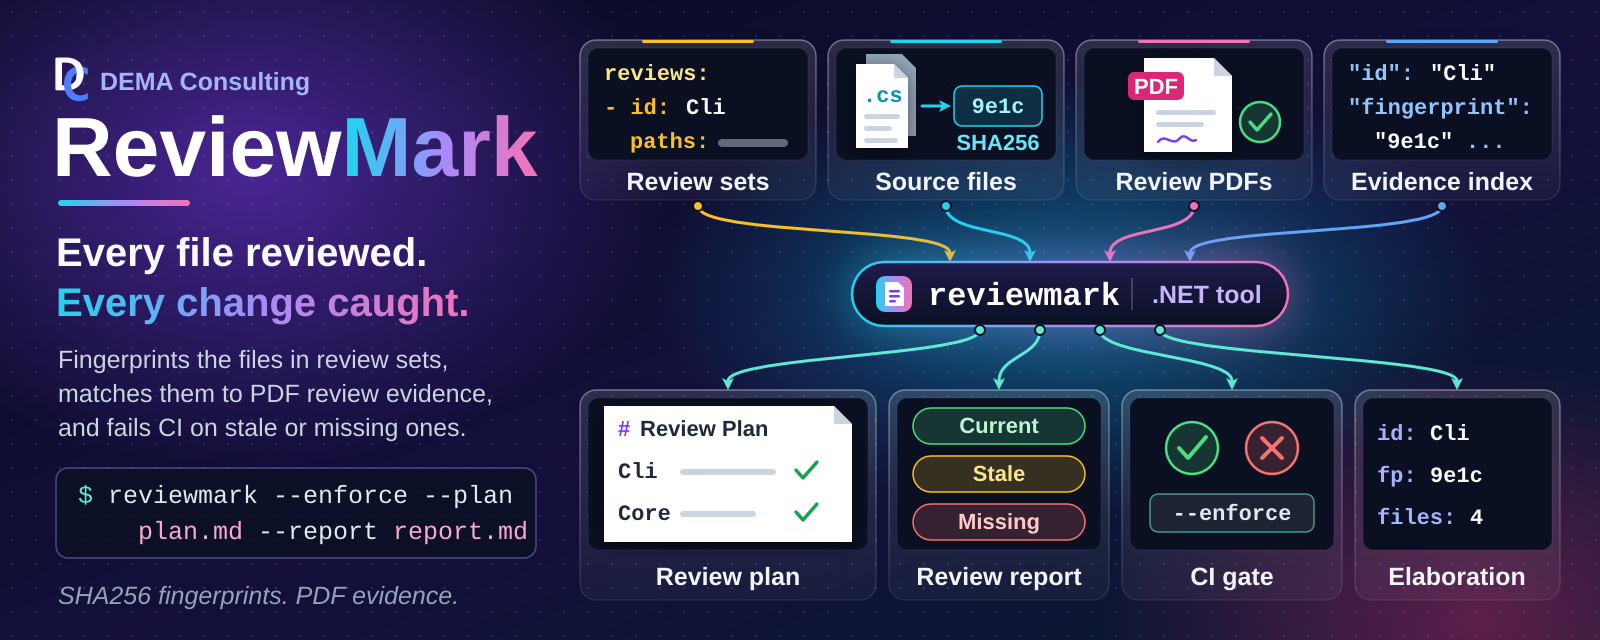
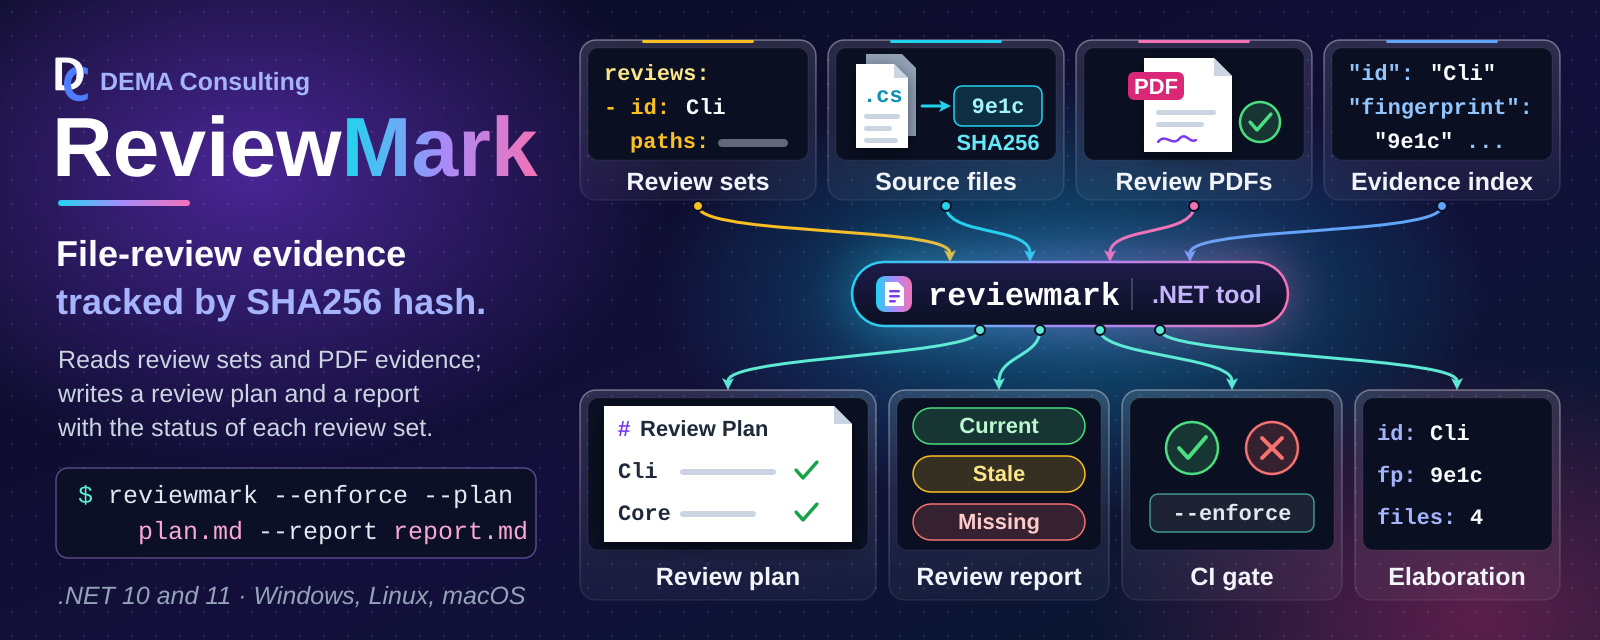
Sync agents/template and calm the README hero (#121)
* Sync shared agents, skills, and standards from Agents main

Includes docdown skill wording (#60), orchestrator Pull Requests section and planning
Feasibility and Delivery step (#62), SysML2 one-package-per-file rule (#64), and the
AGENTS.md Project Scripts section.

* Sync template: yamlfix block-text comments and script CUSTOMIZATION notes

Applies template #61 (comments_require_starting_space = false) and #63 (CUSTOMIZATION
header comments in build.ps1, lint.ps1, fix.ps1). Comment-only script changes.

* Calm the README hero and make it the H1

Plain-statement tagline in solid white and #a5b4fc at 36px (no gradient), factual body
and footnote, per template #66. The hero image is now the README H1 with the badges
directly under it.

* Record the legacy SysML2 package layout as a standards exception

---------

Changed region(s): [[0.0312, 0.5312, 0.3125, 0.6875], [0.0312, 0.375, 0.3125, 0.5], [0.0312, 0.9062, 0.3438, 0.9688]]

diff --git a/.github/standards/sysml2-modeling.md b/.github/standards/sysml2-modeling.md
@@ -31,15 +31,15 @@ docs/sysml2/
 ├── common/
 │   └── software-items.sysml           # shared SoftwareItemMetadata::SoftwareInfo metadata def
 ├── model/
-│   ├── {system-name}.sysml            # system-level part def only (no subsystems/units inline)
+│   ├── {system-name}.sysml            # package {SystemName}; system-level part def only (no subsystems/units inline)
 │   ├── {system-name}/
-│   │   ├── {subsystem-name}.sysml     # subsystem part def; nests further for sub-subsystems
+│   │   ├── {subsystem-name}.sysml     # package {SystemName}_{SubsystemName}Subsystem; nests further for sub-subsystems
 │   │   └── {subsystem-name}/
-│   │       └── {unit-name}.sysml      # one file per unit
-│   ├── ots.sysml                      # OTS dependency parts (optional; if OTS items exist)
-│   └── shared.sysml                   # Shared Package parts (optional; if Shared Packages exist)
+│   │       └── {unit-name}.sysml      # package {SystemName}_{UnitName}; one file per unit
+│   ├── ots.sysml                      # package OtsDependencies: OTS parts (optional; if OTS items exist)
+│   └── shared.sysml                   # package SharedPackages: Shared Package parts (optional; if Shared Packages exist)
 └── views/
-    └── design-views.sysml             # named view usages rendered for the design document
+    └── design-views.sysml             # package {RepoName}DesignViews; named view usages rendered for the design document
 ```
 
 `docs/sysml2/common/software-items.sysml` defines the `SoftwareItemMetadata::SoftwareInfo`
@@ -62,14 +62,42 @@ so no single alias name would generalize. Agents discover the system(s) present 
 `docs/sysml2/**/*.sysml`, not by assuming a fixed name.
 
 Always pass the full set of `.sysml` files (or an equivalent glob) to every `sysml2tools`
-invocation — the model spans multiple files and cross-references between them; files sharing
-the same `package Name { ... }` merge into one namespace automatically with no `import`
-required, as long as all files are passed together. As of `sysml2tools` 0.1.0-beta.5,
+invocation — the model spans multiple files and cross-references between them, and a
+reference only resolves when the file declaring its target is loaded (see Package Structure
+below for how files reference each other). As of `sysml2tools` 0.1.0-beta.5,
 `lint` and `render` both expand `*`/`**` glob patterns internally (recursing correctly into
 subdirectories), so pass a single **quoted** glob string (e.g. `'docs/sysml2/**/*.sysml'`)
 and let the tool resolve it — do not rely on the shell to expand it, and do not quote-strip
 the pattern before it reaches the tool. Quoting keeps the behavior identical across
 PowerShell and bash, since neither shell needs to (or reliably does) expand `**` itself.
+
+## Package Structure
+
+SysML v2 has no package merging: each file is its own root namespace, and two root packages
+with the same name are duplicate members of the global namespace (the OMG Pilot
+Implementation reports "Duplicate of other owned member name" for each, and references across
+the halves do not resolve). A model that only loads because a tool is lenient is not portable,
+so:
+
+- Each `.sysml` file declares **exactly one uniquely named package**, and a package is never
+  declared (or "reopened") in more than one file.
+- Name each package from its place in the hierarchy, joined with an underscore:
+  `{SystemName}` for the system file, `{SystemName}_{SubsystemName}Subsystem` for a subsystem
+  (including a nested sub-subsystem, which is not prefixed with its parent subsystem), and
+  `{SystemName}_{UnitName}` for a unit. The system prefix keeps names unique across systems.
+  The shared files use `OtsDependencies` and `SharedPackages`, and the single views file uses
+  one repository-level package, `{RepoName}DesignViews` (not one per system).
+- Package names must be unique **repository-wide**. The short forms above are the default;
+  when one would collide (two `Storage` subsystems in different branches, or two units named
+  `Cache` in different subsystems), qualify it with the owning subsystem path, for example
+  `{SystemName}_{SubsystemName}_{UnitName}` (`Acme_Ingest_Cache` and `Acme_Query_Cache`).
+- Reference other files with an explicit `private import {PackageName}::*;` (a system or
+  subsystem file imports the package of each direct member so its `part` usages resolve; every
+  file that applies `SoftwareInfo` imports `SoftwareItemMetadata::*`).
+- Where an import would form a cycle (for example a unit that depends on a package that
+  already imports it), or for a one-off reference into another system, use the qualified name
+  instead, e.g. `dependency {UnitName} to {SystemName}_{OtherUnit}::{OtherUnit};`.
+  Import cycles raise a lint warning; qualified references do not.
 
 ## Model Content
 
@@ -174,11 +202,13 @@ Views control what gets rendered into diagrams for the design document. Use name
 **usages** (not `view def` **definitions**) — `expose` is only valid inside a usage:
 
 ```sysml
-package {SystemName} {
+package {RepoName}DesignViews {
     private import StandardViewDefinitions::*;
+    private import {SystemName}::*;
+    private import {SystemName}_{SubsystemName}Subsystem::*;
 
     view SoftwareStructureView : InterconnectionView {
-        expose {SystemName}::**;     // all members, recursively: system + subsystems + units
+        expose {SystemName}::{SystemName}System::**;  // system part def, recursively: subsystems + units
     }
 
     view {SystemName}View {
@@ -186,10 +216,12 @@ package {SystemName} {
     }
 
     view {SubsystemName}View {
-        expose {SubsystemName};      // one subsystem def only
+        expose {SubsystemName}Subsystem;      // one subsystem def only
     }
 }
 ```
+
+Views import (or qualify) every package whose members they expose, like any other file.
 
 Type `SoftwareStructureView` by a standard view definition from the SysML v2 Views library
 (`GeneralView`, `InterconnectionView`, ...; requires `sysml2tools` 0.3.0-beta.3+). The view
@@ -223,25 +255,27 @@ There is no dedicated `DependencyView`/`{SubsystemName}DependencyView` diagram c
 above), not rendered.
 
 When a repository has multiple systems, type `SoftwareStructureView` by `GeneralView`,
-expose each system package's members, and filter out documentation so the overview stays
-readable — the general view draws one package frame per system, while an interconnection
-view places all systems in a single row:
+expose each system's part def (and each subsystem's, by qualified name), and filter out
+documentation so the overview stays readable — the general view draws one package frame per
+system, while an interconnection view places all systems in a single row:
 
 ```sysml
 package {RepoName}DesignViews {
     private import StandardViewDefinitions::*;
 
     view SoftwareStructureView : GeneralView {
-        expose {SystemNameA}::**;
-        expose {SystemNameB}::**;
-        filter not @SysML::Documentation;
+        expose {SystemNameA}::{SystemNameA}System;
+        expose {SystemNameA}_{SubsystemName}Subsystem::{SubsystemName}Subsystem;
+        expose {SystemNameB}::{SystemNameB}System;
+        filter not (@SysML::Documentation);
     }
 }
 ```
 
 Documentation (`doc`) is exposed with its owner and drawn as a `doc` compartment unless a
-view filters it out; use `filter not @SysML::Documentation;` wherever doc text would clutter
-a diagram.
+view filters it out; use `filter not (@SysML::Documentation);` wherever doc text would clutter
+a diagram. The parentheses are required: the SysML v2 grammar does not accept the unparenthesized
+`filter not @SysML::Documentation;`.
 
 ## Diagram Embedding
 
@@ -313,6 +347,9 @@ sync.
   `sourceFiles`; the purpose statement appears only in the `doc` comment, never in `SoftwareInfo`
 - [ ] `docs/sysml2/views/design-views.sysml` uses `view Name { expose ...; }` usages, not
   `view def` definitions
+- [ ] Each `.sysml` file declares exactly one uniquely named package (never the same package
+  in two files), named per Package Structure, and references other files through
+  `private import` or qualified names (qualified where an import would form a cycle)
 - [ ] View names follow the `SoftwareStructureView` / `{SystemName}View` /
   `{SubsystemName}View` convention (no dedicated `DependencyView`)
 - [ ] Each Unit's real collaborators are captured as `dependency A to B;` statements, and each

diff --git a/.github/skills/sysml2tools-query/SKILL.md b/.github/skills/sysml2tools-query/SKILL.md
@@ -21,11 +21,15 @@ dotnet tool restore
 ## Model files
 
 - `docs/sysml2/model/{system-name}.sysml` — system-level `part def` only (no subsystems/units
-  inline). A repository may contain more than one system.
+  inline), in package `{SystemName}`. A repository may contain more than one system.
 - `docs/sysml2/model/{system-name}/{subsystem-name}.sysml` and
   `docs/sysml2/model/{system-name}/{subsystem-name}/{unit-name}.sysml` — one file per
   Subsystem/Unit, nested to mirror the same folder depth as that item's companion
-  `docs/design/`, `docs/reqstream/`, and `docs/verification/` files.
+  `docs/design/`, `docs/reqstream/`, and `docs/verification/` files. Each declares its own
+  uniquely named package; by default `{SystemName}_{SubsystemName}Subsystem` or
+  `{SystemName}_{UnitName}`, qualified with the subsystem path
+  (`{SystemName}_{SubsystemName}_{UnitName}`) when the short name would collide. An element's
+  qualified name is e.g. `{SystemName}_{UnitName}::{UnitName}`.
 - `docs/sysml2/model/ots.sysml` — off-the-shelf (OTS) dependency parts (present when OTS items
   exist).
 - `docs/sysml2/model/shared.sysml` — Shared Package parts (present when Shared Package items
@@ -35,9 +39,10 @@ dotnet tool restore
   useful to see how diagrams are scoped.
 
 Always pass all `.sysml` files (or a glob covering them) to every `sysml2tools`
-invocation — the model spans multiple files and cross-references between them; files that
-reopen the same `package Name { ... }` from different files merge into one namespace
-automatically, no `import` required. As of `sysml2tools` 0.1.0-beta.5, every subcommand
+invocation — the model spans multiple files and cross-references between them (each file
+declares one uniquely named package and references others through `import` or qualified
+names; same-named packages in different files are not merged), so every file a reference
+points at must be loaded. As of `sysml2tools` 0.1.0-beta.5, every subcommand
 (`lint`, `render`, `query`) expands `*`/`**` glob patterns internally and recurses
 correctly — pass a single **quoted** glob string and let the tool resolve it, rather than
 relying on the shell (quoting works identically in both PowerShell and bash):
@@ -57,7 +62,7 @@ summary line, so one query gets you every artifact location for that item withou
 the source tree:
 
 ```pwsh
-dotnet sysml2tools query describe -e {SystemName}::{UnitName} 'docs/sysml2/**/*.sysml'
+dotnet sysml2tools query describe -e {SystemName}_{UnitName}::{UnitName} 'docs/sysml2/**/*.sysml'
 ```
 
 ```text

diff --git a/README.md b/README.md
@@ -1,7 +1,4 @@
-# ReviewMark
-
-<!-- IMPORTANT: All links in this file must be absolute URLs.
-     This file is distributed in packages and relative links will not resolve. -->
+# ![ReviewMark: File-review evidence tracked by SHA256 hash. Reads review sets and PDF evidence; writes a review plan and a report with the status of each review set. Shown with the command 'reviewmark --enforce --plan plan.md --report report.md' and the note '.NET 10 and 11, Windows, Linux, macOS'. Review sets from .reviewmark.yaml, source files with their SHA256 fingerprints, PDF review evidence, and the evidence index.json flow into the reviewmark .NET tool, and arrows lead out to a review plan, a review report with Current, Stale, and Missing statuses, a pass/fail CI gate, and a review-set elaboration][hero]
 
 [![GitHub forks][badge-forks]][link-forks]
 [![GitHub stars][badge-stars]][link-stars]
@@ -12,11 +9,8 @@
 [![Security][badge-security]][link-security]
 [![NuGet][badge-nuget]][link-nuget]
 
-![ReviewMark banner: the ReviewMark name with the tagline 'Every file reviewed. Every change caught.'
-and the command 'reviewmark --enforce --plan plan.md --report report.md'. Review sets from .reviewmark.yaml,
-source files with their SHA256 fingerprints, signed PDF review evidence, and the evidence index.json flow on
-curved arrows into the reviewmark .NET tool, and arrows lead out to a review plan, a review report with Current,
-Stale, and Missing statuses, a pass/fail CI gate, and a review-set elaboration][link-hero-image]
+<!-- IMPORTANT: All links in this file must be absolute URLs.
+     This file is distributed in packages and relative links will not resolve. -->
 
 ## Overview
 
@@ -318,5 +312,5 @@ By contributing to this project, you agree that your contributions will be licen
 [link-guide]: https://github.com/demaconsulting/ReviewMark/blob/main/docs/user_guide/introduction.md
 [link-system-design]: https://github.com/demaconsulting/ReviewMark/blob/main/docs/design/review-mark.md
 [link-continuous-compliance]: https://github.com/demaconsulting/ContinuousCompliance
-[link-hero-image]: https://raw.githubusercontent.com/demaconsulting/ReviewMark/main/docs/images/hero.png
+[hero]: https://raw.githubusercontent.com/demaconsulting/ReviewMark/main/docs/images/hero.png
 [link-workflow-image]: https://raw.githubusercontent.com/demaconsulting/ReviewMark/main/docs/images/workflow.png

diff --git a/AGENTS.md b/AGENTS.md
@@ -160,7 +160,28 @@ requires it and the modification preserves the documented design intent:
 
 - `.reviewmark.yaml`, `.textlint.yaml`, `.editorconfig`
 - `.lintmark.yaml`, `.yamllint.yaml`
-- `requirements.yaml`, `fix.ps1`, `lint.ps1`
+- `requirements.yaml`
+
+# Project Scripts
+
+`build.ps1`, `lint.ps1`, and `fix.ps1` belong to the project: extend them as it grows. Add project-specific
+steps, update tool versions, and add optional parameters that focus a run (for example one library in a
+multi-library repository, or headless tests without GUI automation). Two rules keep them trustworthy:
+
+- Run with no arguments, each script still does its full job (CI and the agents rely on that); slow or
+  environment-dependent test tiers may be opt-in switches of `build.ps1`.
+- Never remove or weaken a check to make lint or tests pass.
+
+# Repository-Specific Standards Exceptions
+
+## SysML2 package structure (legacy layout, migration pending)
+
+The model under `docs/sysml2/` still uses the earlier layout: `package ReviewMark` is reopened in 12 model files under
+`docs/sysml2/model/` and in `views/design-views.sysml` (no `{System}_{Unit}` packages and no `ReviewMarkDesignViews`);
+OTS parts use `OtsDependencies` and there is no `SharedPackages` file. The Package Structure rules in
+`sysml2-modeling.md` and the matching qualified-name examples in the `sysml2tools-query` skill apply once the model is
+migrated in a dedicated PR; until then query and extend the model with the existing package names and do not
+partially restructure it.
 
 # Continuous Compliance Overview
 

diff --git a/.github/agents/orchestrator.agent.md b/.github/agents/orchestrator.agent.md
@@ -48,3 +48,16 @@ briefly, what you loaded.
   let the user answer in their own words. Do not batch decisions into structured question forms (such as an
   `ask_user` tool); they strip away the context the user needs to decide and turn the session into a
   questionnaire.
+
+# Pull Requests (MANDATORY)
+
+Aim for pull requests that each merge one complete, useful change that could be cherry-picked on its own.
+
+- Before starting work that could span more than one pull request, propose the grouping and let the user
+  decide. The user may split it, or combine several small requests into one pull request.
+- When splitting, split by behavior, not by layer or file type: each part carries its own code, tests,
+  requirements, and docs, builds and passes alone, and leaves no stubs or dead code for a later part.
+- Deliver parts in order: start the next part from main only after the previous one merges.
+- Review fixes, lint fixes, and follow-ups go into the open pull request they belong to, not a new one.
+- Sub-agents work on the agreed branch and do not open pull requests; you decide when it is complete.
+- Keep mechanical churn (formatting, renames, generated files) in its own commit so reviewers can skip it.

diff --git a/.github/agents/planning.agent.md b/.github/agents/planning.agent.md
@@ -52,10 +52,13 @@ Repeat up to 2 more times, stopping when the plan is stable.
 
 List up to 5 risks with a brief mitigation for each.
 
-## Step 6 — Feasibility Assessment
+## Step 6 — Feasibility and Delivery
 
 State whether this can be implemented in a single development pass and any
-preconditions that affect feasibility.
+preconditions that affect feasibility. Propose how the work groups into pull
+requests: one complete, useful change per pull request where possible; if it
+should be split, list ordered parts that are split by behavior (not by layer or
+file type) and each build, pass, and deliver something on their own.
 
 ## Step 7 — Recommendation
 
@@ -108,9 +111,12 @@ Then respond to the caller with ONLY the lean structured summary below.
 
 1. **[severity]** {risk} — {mitigation}
 
-## Feasibility Assessment
+## Feasibility and Delivery
 
 {Single-pass or not, and why. Any preconditions.}
+
+{Proposed pull-request grouping: one pull request, or ordered parts split by behavior,
+each with what it delivers on its own.}
 
 ## Unknowns
 
